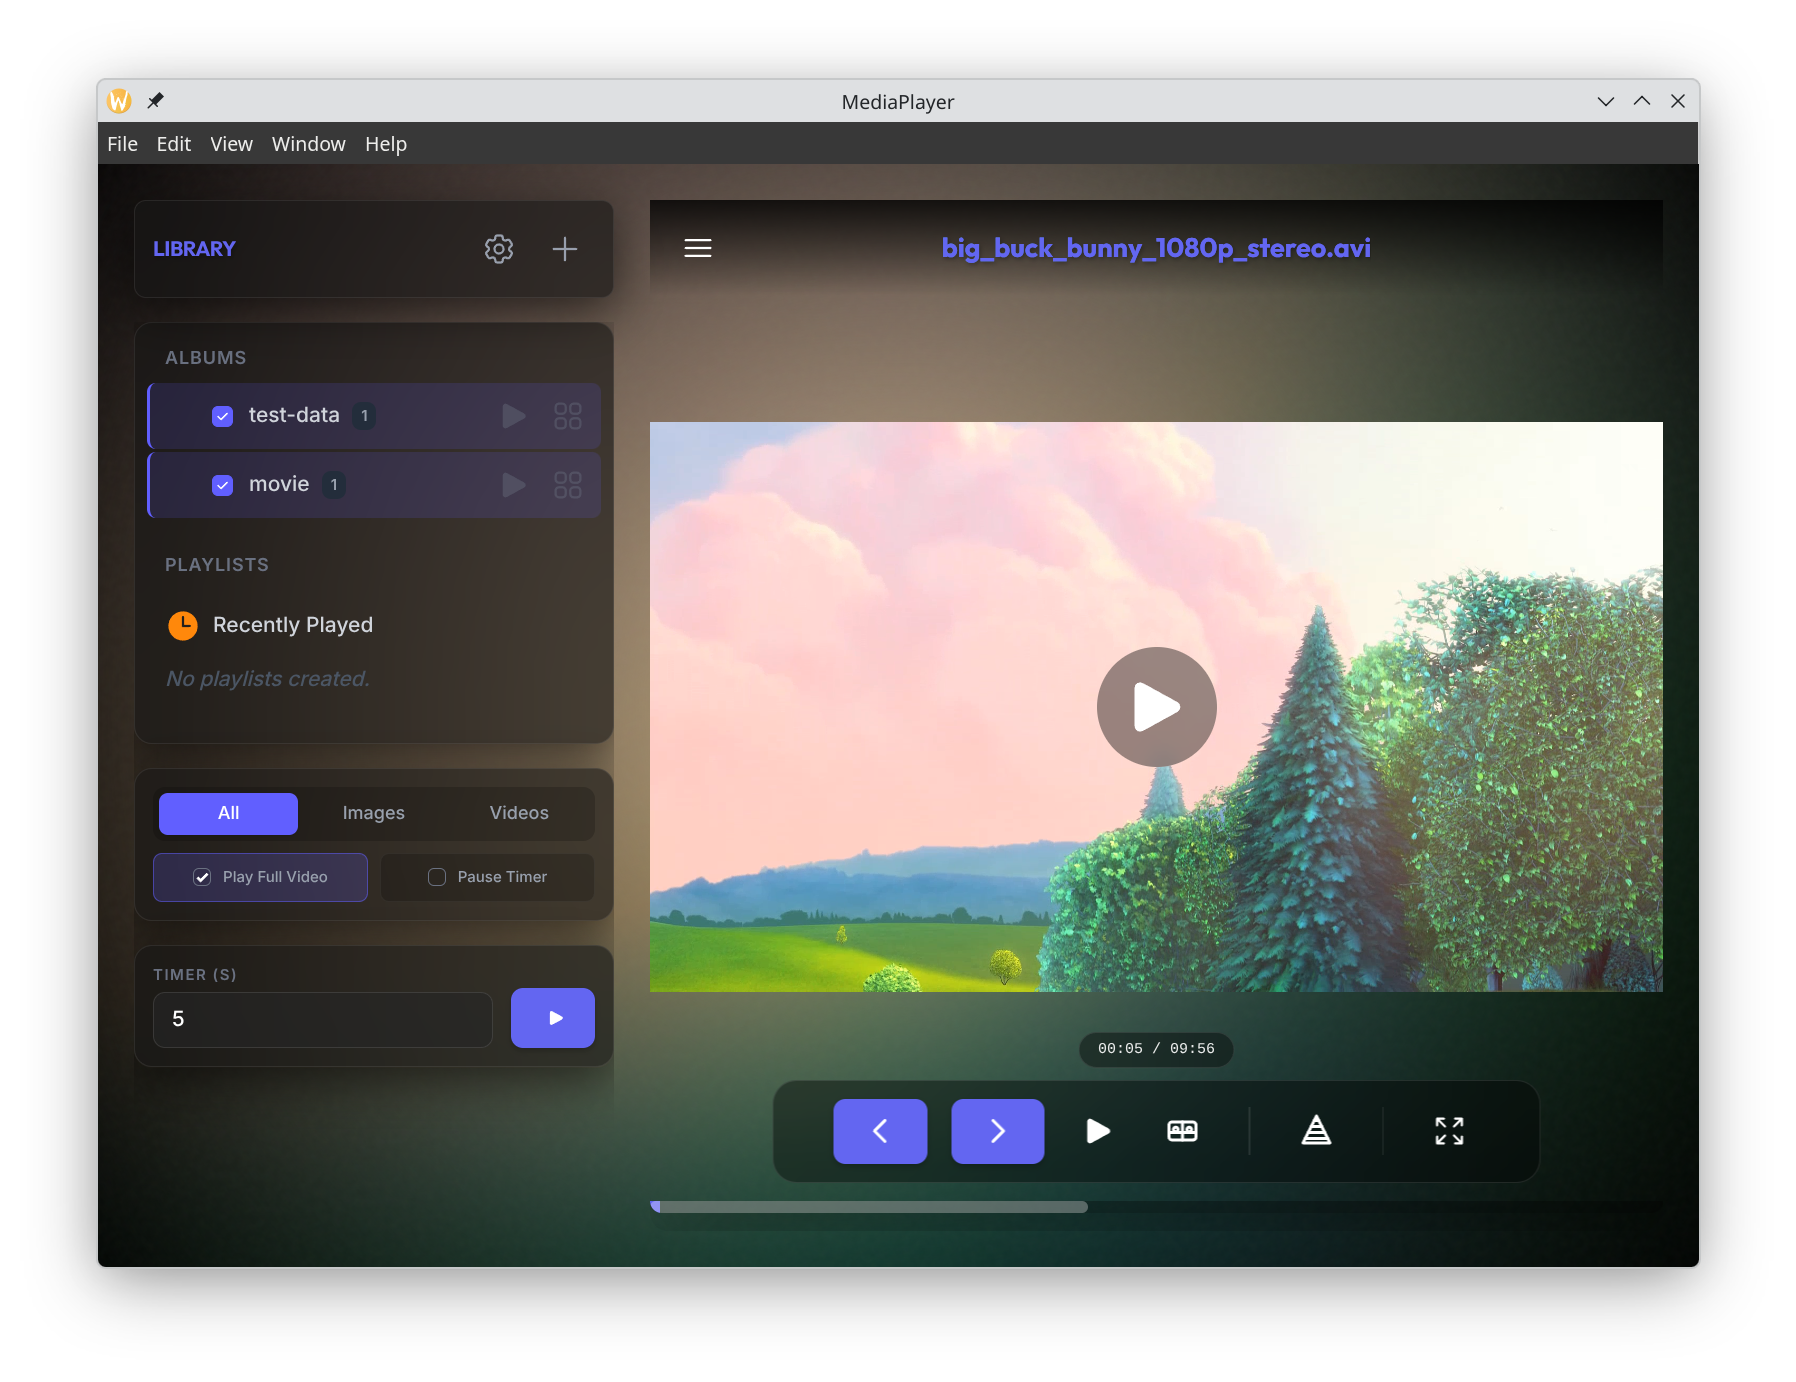
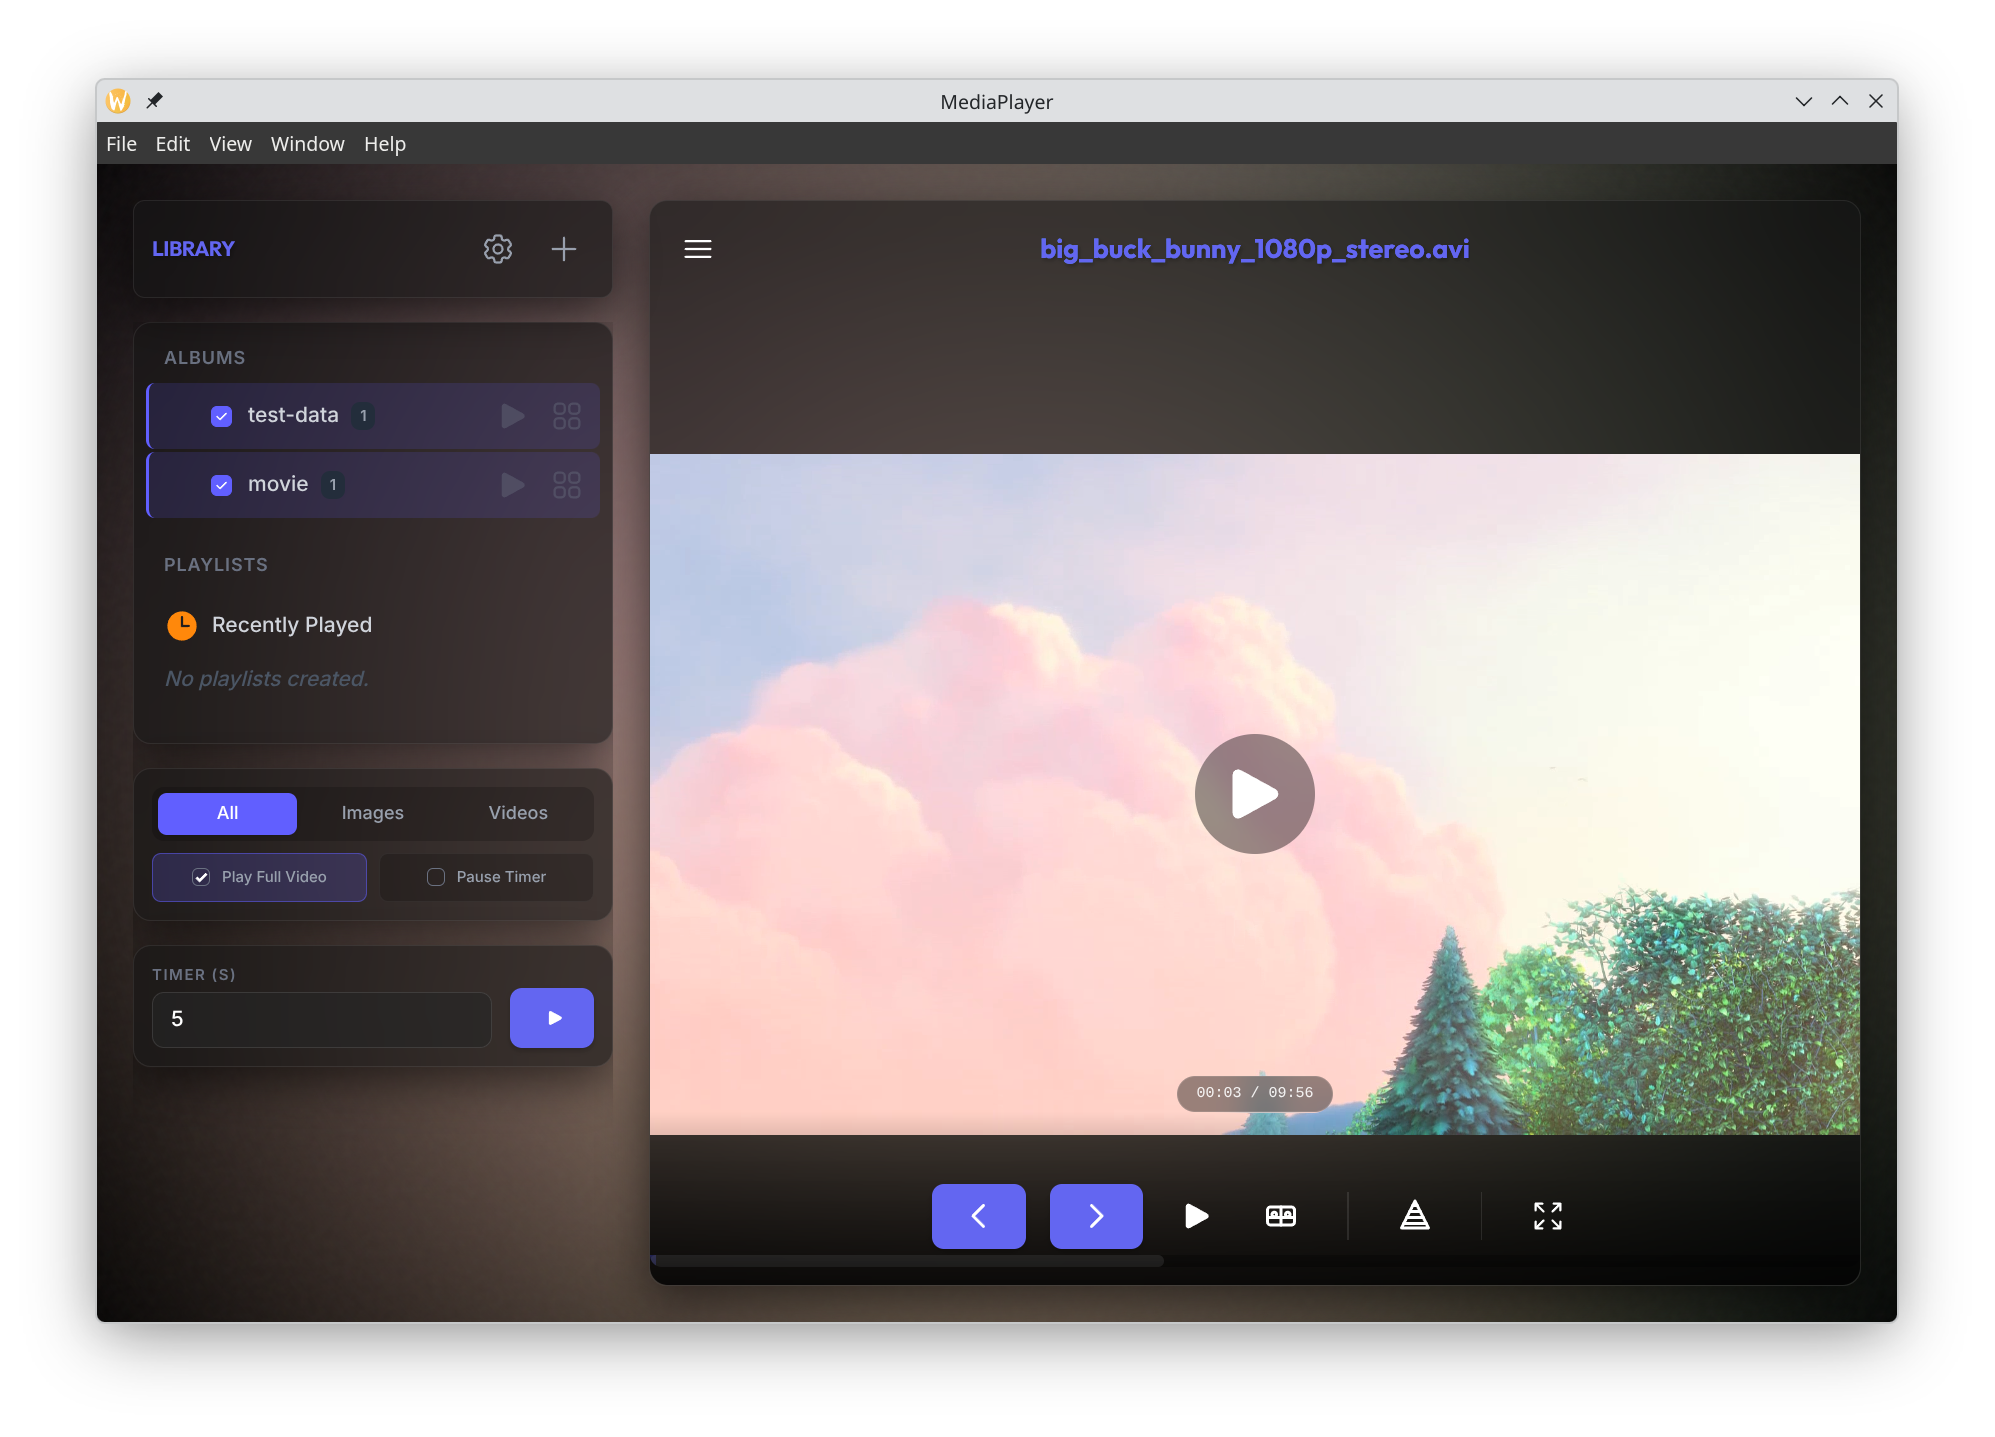
Redid video ui, readme and fixed a thumbnail bug

diff --git a/tests/core/media-handler.test.ts b/tests/core/media-handler.test.ts
@@ -607,16 +607,35 @@ describe('media-handler unit tests', () => {
       const cachePath = '/cache/thumb.jpg';
       mockGetThumbnailCachePath.mockReturnValue(cachePath);
       mockCheckThumbnailCache.mockResolvedValue(true);
-      const mockStream = { pipe: vi.fn() };
+
+      const mockStream = new EventEmitter();
+      (mockStream as any).pipe = vi.fn();
 
       mockFsCreateReadStream.mockReturnValue(mockStream as any);
 
-      await serveThumbnail(req, res, '/video.mp4', 'ffmpeg', '/cache');
+      const promise = serveThumbnail(
+        req,
+        res,
+        '/video.mp4',
+        'ffmpeg',
+        '/cache',
+      );
+
+      // Wait for async loop to attach listeners
+      await new Promise((r) => setTimeout(r, 0));
+
+      // Simulate stream open
+      mockStream.emit('open');
+      // Simulate stream end to resolve promise
+      mockStream.emit('end');
+
+      await promise;
 
       expect(res.set).toHaveBeenCalledWith(
         expect.objectContaining({ 'Content-Type': 'image/jpeg' }),
       );
-      expect(res.sendFile).toHaveBeenCalledWith(cachePath);
+      expect(mockFsCreateReadStream).toHaveBeenCalledWith(cachePath);
+      expect((mockStream as any).pipe).toHaveBeenCalledWith(res);
     });
 
     it('generates thumbnail for gdrive file', async () => {
@@ -651,9 +670,6 @@ describe('media-handler unit tests', () => {
       mockCheckThumbnailCache.mockResolvedValue(false);
       mockAuthorizeFilePath.mockResolvedValue({ isAllowed: false });
 
-      const mockWriteStream = {};
-      mockFsCreateWriteStream.mockReturnValue(mockWriteStream as any); // Add this as it might be required for provider flow even if auth fails later? No.
-
       await serveThumbnail(req, res, '/local/vid.mp4', 'ffmpeg', '/cache');
 
       expect(res.status).toHaveBeenCalledWith(403);
@@ -682,7 +698,8 @@ describe('media-handler unit tests', () => {
       mockSpawn.mockReturnValue(mockProcess);
 
       mockFsStat.mockResolvedValue({} as any);
-      const mockStream = { pipe: vi.fn() };
+
+      const mockStream = { pipe: vi.fn(), on: vi.fn() };
       mockFsCreateReadStream.mockReturnValue(mockStream as any);
 
       await serveThumbnail(req, res, '/video.mp4', 'ffmpeg', '/cache');
@@ -691,7 +708,8 @@ describe('media-handler unit tests', () => {
       expect(res.set).toHaveBeenCalledWith(
         expect.objectContaining({ 'Content-Type': 'image/jpeg' }),
       );
-      expect(res.sendFile).toHaveBeenCalledWith('/cache/local.jpg');
+      expect(mockFsCreateReadStream).toHaveBeenCalledWith('/cache/local.jpg');
+      expect(mockStream.pipe).toHaveBeenCalledWith(res);
     });
 
     it('handles ffmpeg failure (non-zero exit)', async () => {
@@ -1191,8 +1209,8 @@ describe('media-handler unit tests', () => {
       const res2 = await request(app).get(
         '/video/thumbnail?file=/test.jpg&file=/ignore.jpg',
       );
-      // expect 404 because file doesn't exist on disk during res.sendFile
-      expect(res2.status).toBe(404);
+      // Expect 500 because stream file open/read error is mapped to 500
+      expect(res2.status).toBe(500);
     });
 
     it('Static File Middleware normalizes Windows paths with leading slash', async () => {

diff --git a/src/renderer/assets/main.css b/src/renderer/assets/main.css
@@ -8,13 +8,19 @@
    * This allows for easy theming and consistent styling.
  */
 :root {
-  --primary-bg: #050505; /* Deepest Midnight Black */
-  --secondary-bg: #0f0f0f; /* Rich Black */
-  --tertiary-bg: #1f1f1f; /* Soft Charcoal */
-  --tertiary-bg: #1f1f1f; /* Soft Charcoal */
+  --primary-bg: #050505;
+  /* Deepest Midnight Black */
+  --secondary-bg: #0f0f0f;
+  /* Rich Black */
+  --tertiary-bg: #1f1f1f;
+  /* Soft Charcoal */
+  --tertiary-bg: #1f1f1f;
+  /* Soft Charcoal */
   /* User asked to redo colors, so I'll try a sophisticated Electric Blue/Violet gradient feel via accent */
-  --accent-color: #6366f1; /* Indigo-500 */
-  --accent-hover: #4f46e5; /* Indigo-600 */
+  --accent-color: #6366f1;
+  /* Indigo-500 */
+  --accent-hover: #4f46e5;
+  /* Indigo-600 */
   --text-color: #ffffff;
   --text-muted: #9ca3af;
   --border-color: #27272a;
@@ -26,10 +32,12 @@
   --body-font: 'Inter', sans-serif;
 
   /* Glassmorphism Variables */
-  --glass-bg: rgba(10, 10, 10, 0.6); /* Darker, more neutral glass */
+  --glass-bg: rgba(10, 10, 10, 0.6);
+  /* Darker, more neutral glass */
   --glass-border: rgba(255, 255, 255, 0.08);
   --glass-shadow: 0 8px 32px 0 rgba(0, 0, 0, 0.6);
-  --glass-blur: blur(24px); /* Premium smooth blur */
+  --glass-blur: blur(24px);
+  /* Premium smooth blur */
 }
 
 /* Glassmorphism Utilities */
@@ -89,13 +97,16 @@
 ::-webkit-scrollbar {
   width: 10px;
 }
+
 ::-webkit-scrollbar-track {
   background: transparent;
 }
+
 ::-webkit-scrollbar-thumb {
   background: transparent;
   border-radius: 10px;
 }
+
 ::-webkit-scrollbar-thumb:hover {
   background: var(--accent-color);
 }
@@ -118,11 +129,13 @@ body {
   color: var(--text-color);
   overscroll-behavior: none;
   font-weight: 500;
-  overflow: hidden; /* Prevent body scrollbar */
+  overflow: hidden;
+  /* Prevent body scrollbar */
 }
 
 html {
-  overflow: hidden; /* Prevent html scrollbar */
+  overflow: hidden;
+  /* Prevent html scrollbar */
 }
 
 /* Typography for Headings */

diff --git a/src/core/media-handler.ts b/src/core/media-handler.ts
@@ -168,23 +168,37 @@ async function runFFmpegThumbnail(
   }
 }
 
-/**
- * Helper: Tries to serve a thumbnail from the local cache.
- * Returns true if served, false otherwise.
- */
 async function tryServeFromCache(
   res: Response,
   cacheFile: string,
 ): Promise<boolean> {
   const hit = await checkThumbnailCache(cacheFile);
   if (hit) {
-    res.set({
-      'Content-Type': 'image/jpeg',
-      'Cache-Control': 'public, max-age=31536000',
+    return new Promise((resolve) => {
+      res.set({
+        'Content-Type': 'image/jpeg',
+        'Cache-Control': 'public, max-age=31536000',
+      });
+
+      const stream = fs.createReadStream(cacheFile);
+
+      stream.on('open', () => {
+        stream.pipe(res);
+      });
+
+      stream.on('error', (err) => {
+        console.warn(
+          `[Thumbnail] Cache Stream Error for ${cacheFile} (falling back to generate):`,
+          err,
+        );
+        // Fallback to generation
+        resolve(false);
+      });
+
+      stream.on('end', () => {
+        resolve(true);
+      });
     });
-    // Use res.sendFile for cache file too
-    res.sendFile(cacheFile);
-    return true;
   }
   return false;
 }
@@ -236,12 +250,19 @@ async function generateLocalThumbnail(
 
     // Verify file exists
     await fsPromises.stat(cacheFile);
-
     res.set({
       'Content-Type': 'image/jpeg',
       'Cache-Control': 'public, max-age=31536000',
     });
-    res.sendFile(cacheFile);
+
+    // Use stream instead of sendFile
+    const stream = fs.createReadStream(cacheFile);
+    stream.pipe(res);
+
+    stream.on('error', (err) => {
+      console.error('[Thumbnail] Stream error sending generated file:', err);
+      if (!res.headersSent) res.status(500).end();
+    });
   } catch (err) {
     console.error('[Thumbnail] Generation failed:', err);
     if (!res.headersSent) {

diff --git a/src/renderer/components/MediaControls.vue b/src/renderer/components/MediaControls.vue
@@ -1,6 +1,6 @@
 <template>
   <div
-    class="absolute bottom-4 md:bottom-8 left-1/2 transform -translate-x-1/2 flex flex-col items-center gap-2 pointer-events-none w-full"
+    class="absolute bottom-0 left-0 w-full flex flex-col items-center pointer-events-none z-50"
   >
     <!-- Time Display Above Pill (Mobile Only or Sidebar Open) -->
     <div
@@ -15,8 +15,8 @@
     </div>
 
     <div
-      class="controls-pill flex flex-nowrap justify-center items-center gap-1 md:gap-4 z-20 transition-transform-opacity duration-500 ease-in-out will-change-transform w-auto max-w-[98%] bg-black/40 backdrop-blur-md rounded-2xl px-3 py-1.5 md:px-10 md:py-3 border border-white/10 pointer-events-auto"
-      :class="{ 'translate-y-48 opacity-0': !isControlsVisible }"
+      class="controls-bar w-full flex flex-nowrap justify-center items-center gap-1 md:gap-4 transition-transform-opacity duration-500 ease-in-out will-change-transform bg-linear-to-t from-black/80 to-transparent pt-12 pb-6 px-4 pointer-events-auto"
+      :class="{ 'translate-y-full opacity-0': !isControlsVisible }"
     >
       <!-- Previous Button -->
       <button

diff --git a/src/renderer/App.vue b/src/renderer/App.vue
@@ -19,17 +19,20 @@
       <!-- Main Media Area -->
       <div
         class="grow flex flex-col h-full relative w-full min-w-0"
+        :class="{
+          'glass-panel rounded-xl overflow-hidden': viewMode === 'player',
+        }"
         data-testid="main-content-area"
         @mousemove="handleMouseMove"
         @mouseleave="handleMouseLeave"
       >
+        <!-- Gradient Overlay (Player Mode Only) -->
+
         <!-- Top Bar (Toggle Sidebar & Title) -->
         <div
-          class="flex justify-between items-center mb-4 p-3 shrink-0 transition-all duration-500 ease-in-out z-40"
+          class="flex justify-between items-center mb-4 p-3 shrink-0 transition-opacity duration-500 ease-in-out z-40"
           :class="[
-            viewMode === 'player'
-              ? 'absolute top-0 left-0 right-0 bg-linear-to-b from-black/80 to-transparent'
-              : 'glass-panel rounded-lg',
+            viewMode === 'player' ? 'w-full' : 'glass-panel rounded-lg',
             {
               'opacity-0 pointer-events-none':
                 !isControlsVisible && viewMode === 'player',

diff --git a/tests/renderer/components/MediaDisplay.style.test.ts b/tests/renderer/components/MediaDisplay.style.test.ts
@@ -97,12 +97,11 @@ describe('MediaDisplay.vue Layout', () => {
   it('should have correct layout classes on desktop', () => {
     const wrapper = mount(MediaDisplay);
 
-    const controls = wrapper.find('.controls-pill');
+    const controls = wrapper.find('.controls-bar');
     const classes = controls.classes();
 
-    // The fixed md:w-[600px] was removed for better responsiveness
-    expect(classes).toContain('w-auto');
-    expect(classes).toContain('max-w-[98%]');
-    expect(classes).toContain('bg-black/40');
+    expect(classes).toContain('w-full');
+    expect(classes).toContain('bg-linear-to-t');
+    expect(classes).toContain('from-black/80');
   });
 });

diff --git a/src/renderer/components/VideoPlayer.vue b/src/renderer/components/VideoPlayer.vue
@@ -3,7 +3,7 @@
     <!-- Video Element -->
     <video
       ref="videoElement"
-      class="w-full h-full object-contain rounded-xl shadow-2xl"
+      class="w-full h-full object-contain rounded-xl"
       :src="src || undefined"
       autoplay
       @error="handleError"

diff --git a/src/renderer/components/MediaDisplay.vue b/src/renderer/components/MediaDisplay.vue
@@ -757,7 +757,7 @@ defineExpose({
   max-height: 100%;
   object-fit: contain;
   border-radius: 12px;
-  box-shadow: 0 20px 50px rgba(0, 0, 0, 0.8);
+  border-radius: 12px;
 }
 
 .glass-button {
